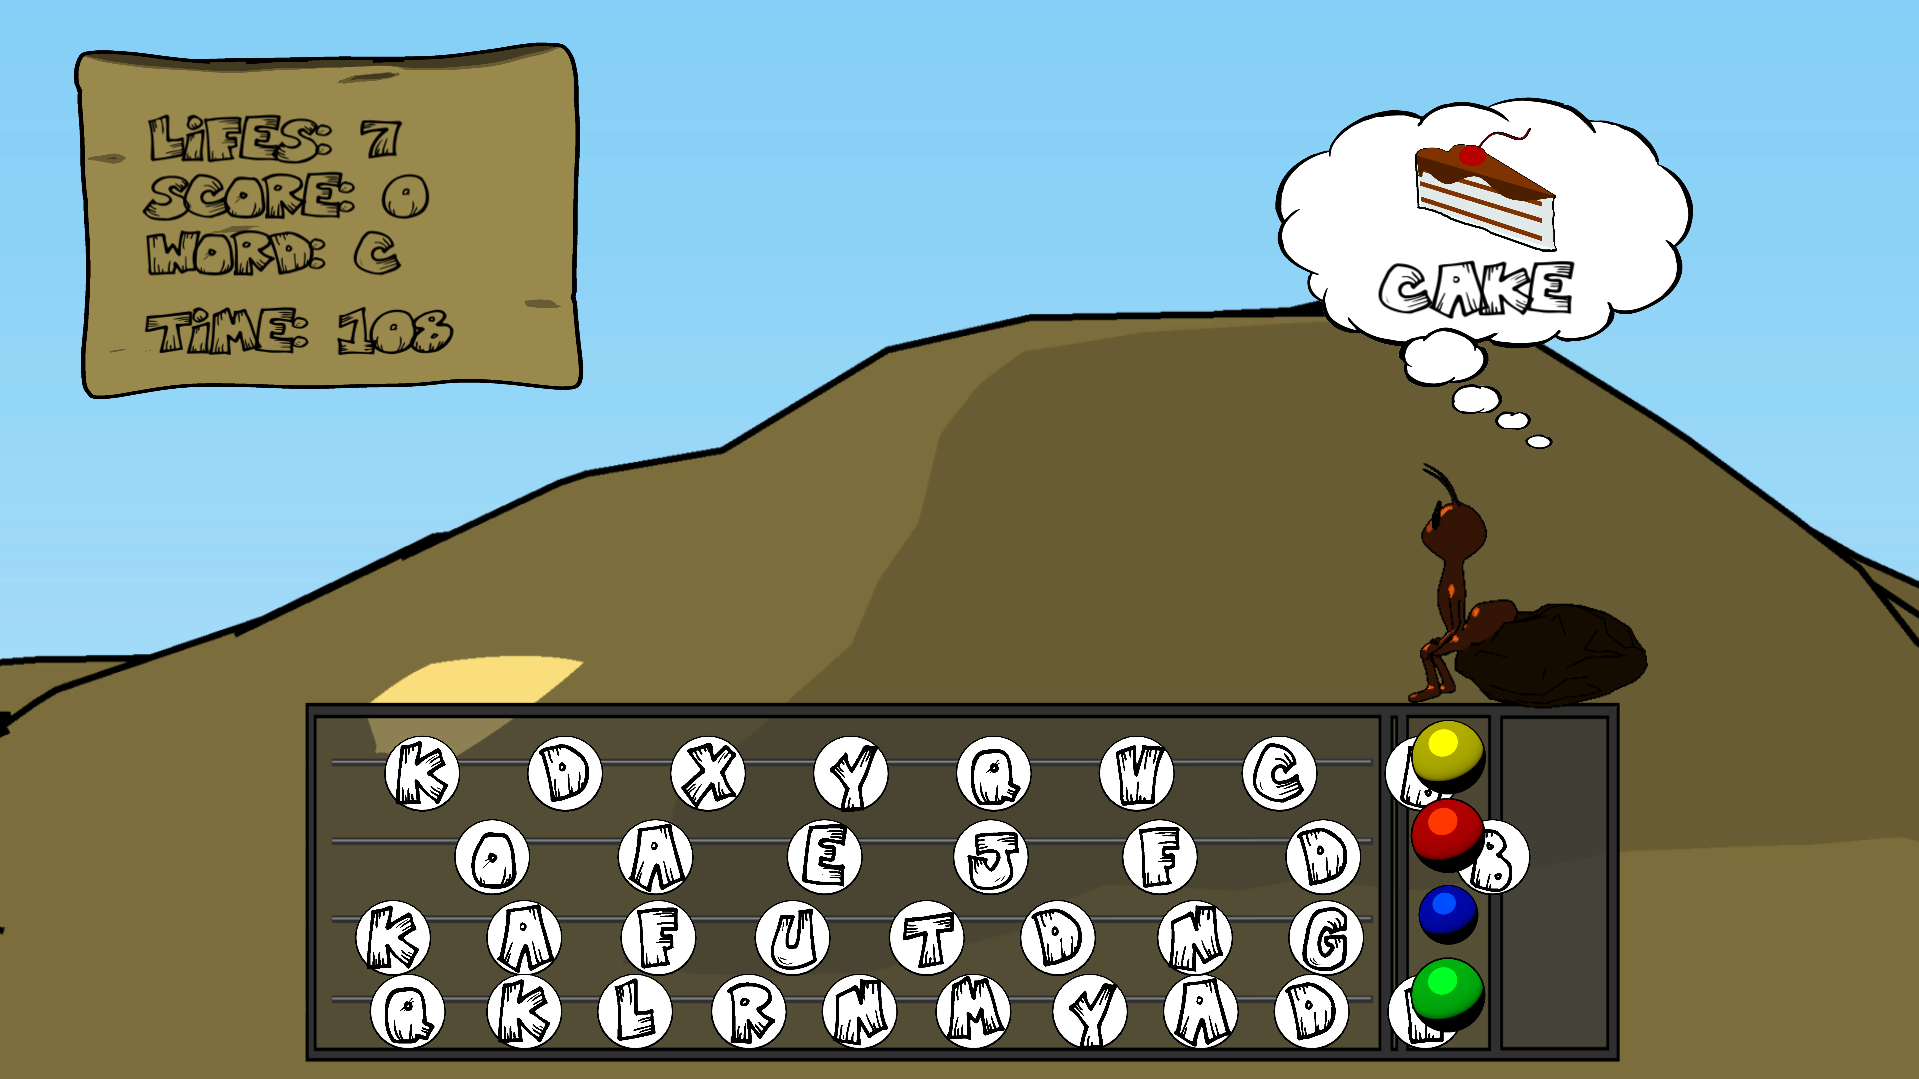
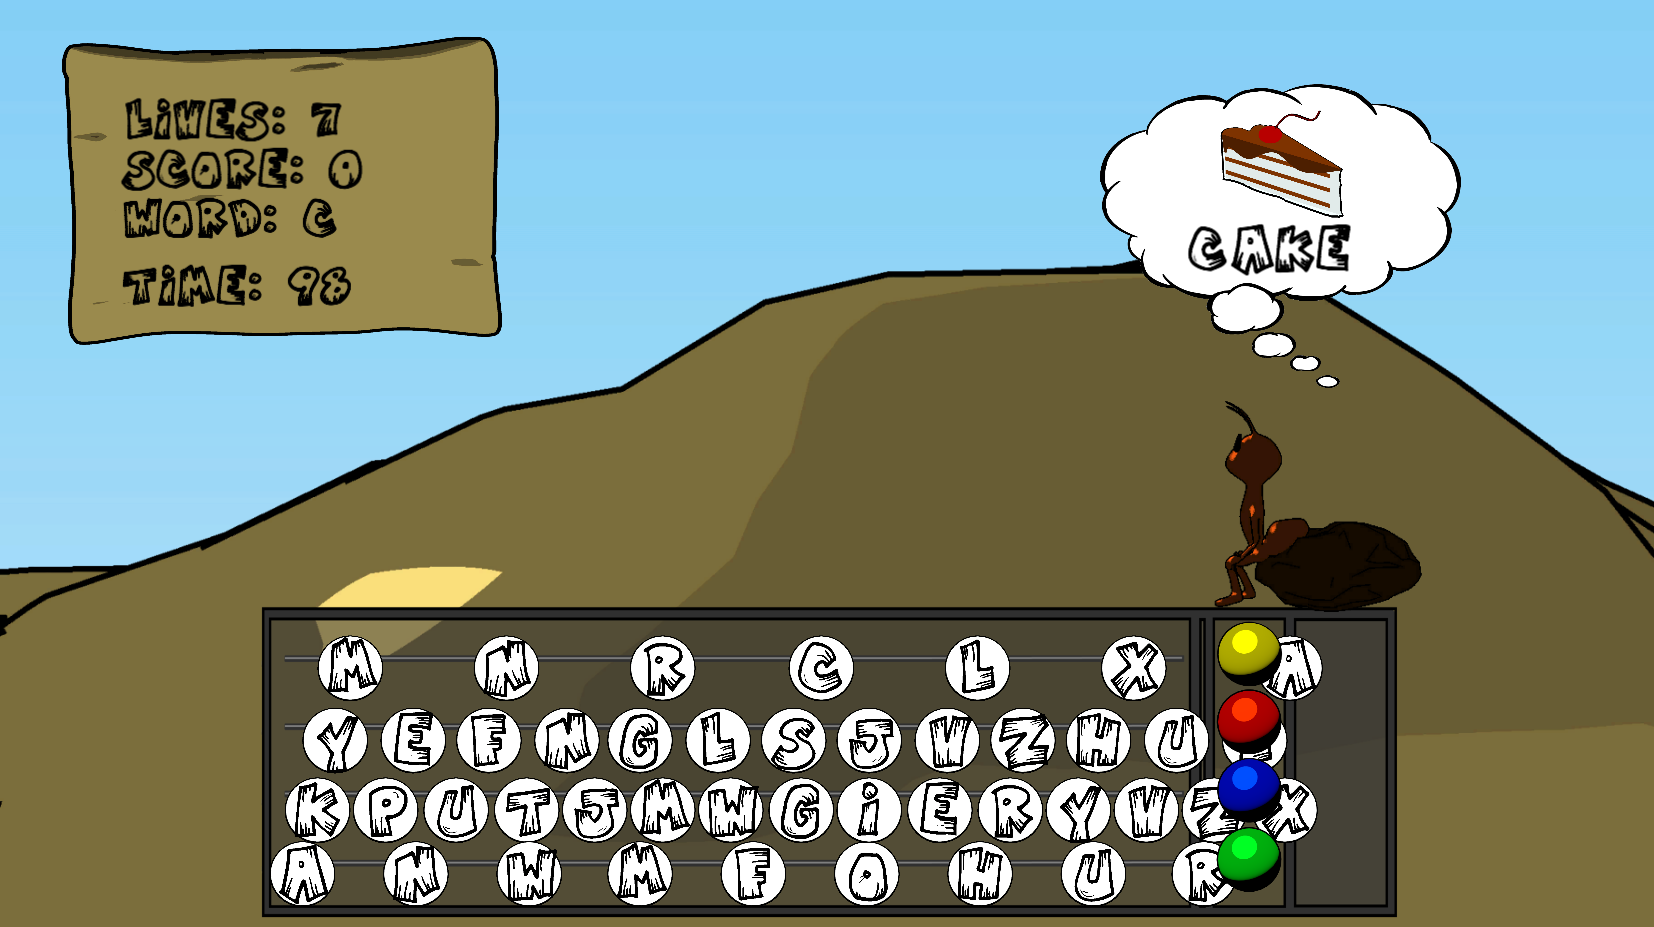
Corrected a minor inconsistency.

diff --git a/Assets/Scripts/GameManager.cs b/Assets/Scripts/GameManager.cs
@@ -45,7 +45,7 @@ public class GameManager : MonoBehaviour
     void FixedUpdate()
     {
         resultPanel.GetComponent<UnityEngine.UI.Text>().text = "Word: "+ currWord;
-        hpPanel.GetComponent<UnityEngine.UI.Text>().text = "Lifes: "+ lives;
+        hpPanel.GetComponent<UnityEngine.UI.Text>().text = "Lives: "+ lives;
         scorePanel.GetComponent<UnityEngine.UI.Text>().text = "Score: "+ score;
         timePanel.GetComponent<UnityEngine.UI.Text>().text = "Time: "+ timeLeft;
 
